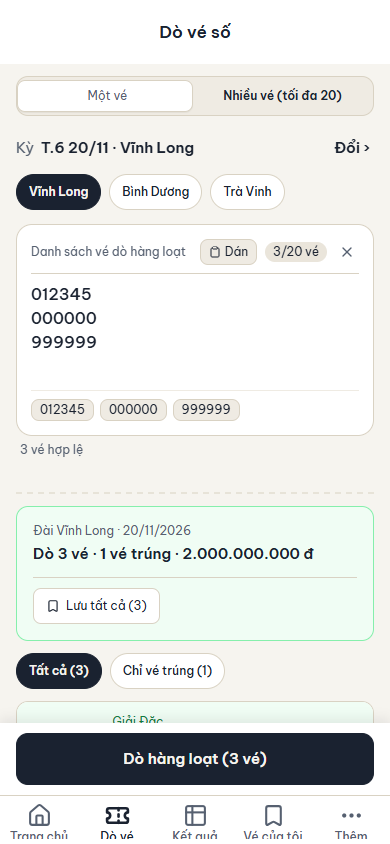
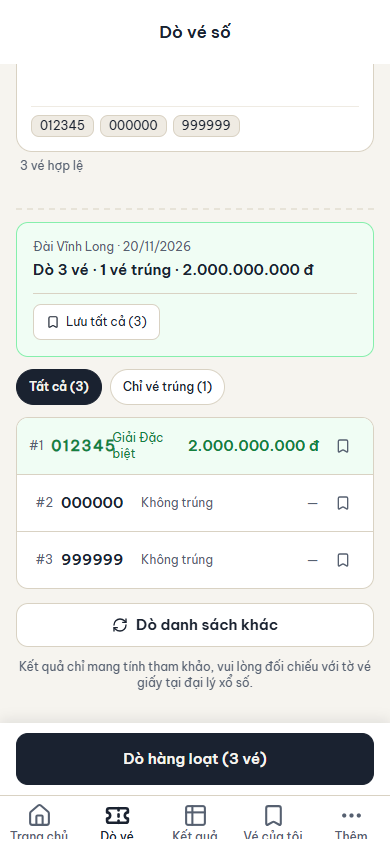
fix(mobile): chunk pending recheck into batches of 20 tickets
The auto recheck sent every PENDING ticket of a draw in one
/check/batch call, but the API accepts at most 20, so 21+ tickets got
400 and stayed PENDING forever. Split groups into chunks of 20, let a
failing chunk not block the rest, and also settle STATION_NOT_FOUND as
INVALID. Covered by Jest and a Playwright scenario with 25 tickets.

diff --git a/apps/mobile/src/hooks/__tests__/recheckChunking.test.ts b/apps/mobile/src/hooks/__tests__/recheckChunking.test.ts
@@ -1,0 +1,105 @@
+import { recheckPendingTickets, RECHECK_BATCH_SIZE } from '../usePendingTicketsRecheck';
+import { saveManyTickets, clearAllTickets, getTickets } from '@/store/ticketStore';
+import { ApiError } from '@/api/client';
+import type { BatchCheckRequest, BatchCheckResponse } from '@/types';
+
+const STATION = 'vinh-long';
+const DATE = '2026-11-20';
+const tickets = (n: number) =>
+  Array.from({ length: n }, (_, i) => String(100000 + i).padStart(6, '0'));
+
+async function seedPending(codes: string[], station = STATION) {
+  await saveManyTickets(
+    codes.map((ticket) => ({
+      ticket,
+      station,
+      stationName: station,
+      drawDate: DATE,
+      status: 'PENDING' as const,
+      totalPrize: 0,
+    })),
+  );
+}
+
+function checkedResponse(req: BatchCheckRequest): BatchCheckResponse {
+  return {
+    stationCode: req.stationCode,
+    drawDate: req.drawDate,
+    totalAmount: 0,
+    results: req.tickets.map((ticket) => ({
+      ticket,
+      stationCode: req.stationCode,
+      drawDate: req.drawDate,
+      status: 'CHECKED',
+      won: false,
+      wins: [],
+      totalAmount: 0,
+    })),
+  } as BatchCheckResponse;
+}
+
+describe('T13.01 recheck splits pending groups into batches the API accepts', () => {
+  beforeEach(async () => {
+    await clearAllTickets();
+  });
+
+  it('uses the backend batch limit of 20', () => {
+    expect(RECHECK_BATCH_SIZE).toBe(20);
+  });
+
+  it('settles 25 pending tickets of one draw with batches of 20 + 5', async () => {
+    await seedPending(tickets(25));
+    const batchFn = jest.fn(async (req: BatchCheckRequest) => checkedResponse(req));
+
+    const { updatedCount } = await recheckPendingTickets(batchFn);
+
+    expect(batchFn.mock.calls.map(([req]) => req.tickets.length)).toEqual([20, 5]);
+    expect(updatedCount).toBe(25);
+    const stored = await getTickets();
+    expect(stored.filter((t) => t.status === 'PENDING')).toHaveLength(0);
+  });
+
+  it('a failing chunk does not block the other chunks', async () => {
+    await seedPending(tickets(25));
+    let call = 0;
+    const batchFn = jest.fn(async (req: BatchCheckRequest) => {
+      call++;
+      if (call === 1) {
+        throw new ApiError({ status: 0, code: 'NETWORK_ERROR' });
+      }
+      return checkedResponse(req);
+    });
+
+    const { updatedCount } = await recheckPendingTickets(batchFn);
+
+    expect(batchFn).toHaveBeenCalledTimes(2);
+    expect(updatedCount).toBe(5);
+    const stored = await getTickets();
+    expect(stored.filter((t) => t.status === 'PENDING')).toHaveLength(20);
+  });
+
+  it('marks tickets INVALID when the station no longer exists', async () => {
+    await seedPending(tickets(2), 'khong-ton-tai');
+    const batchFn = jest.fn(async () => {
+      throw new ApiError({ status: 404, code: 'STATION_NOT_FOUND' });
+    });
+
+    const { updatedCount } = await recheckPendingTickets(batchFn);
+
+    expect(updatedCount).toBe(2);
+    const stored = await getTickets();
+    expect(stored.every((t) => t.status === 'INVALID')).toBe(true);
+  });
+
+  it('keeps tickets PENDING on rate limit so they are retried later', async () => {
+    await seedPending(tickets(2));
+    const batchFn = jest.fn(async () => {
+      throw new ApiError({ status: 429, code: 'RATE_LIMITED' });
+    });
+
+    await recheckPendingTickets(batchFn);
+
+    const stored = await getTickets();
+    expect(stored.every((t) => t.status === 'PENDING')).toBe(true);
+  });
+});

diff --git a/apps/mobile/src/hooks/usePendingTicketsRecheck.ts b/apps/mobile/src/hooks/usePendingTicketsRecheck.ts
@@ -35,9 +35,25 @@ export function groupPendingTickets(tickets: SavedTicket[]): PendingGroup[] {
   return Array.from(groupMap.values());
 }
 
+/** Max tickets per /check/batch request, same as the backend's @Size(max = 20) (T13.01). */
+export const RECHECK_BATCH_SIZE = 20;
+
 /**
- * Checks all PENDING tickets by querying the batch check API for each group.
- * Automatically updates the store with WON/LOST status and prize details.
+ * Errors that will never go away by retrying: the tickets are marked INVALID
+ * instead of being rechecked forever (T11.16d, T13.01).
+ */
+const PERMANENT_ERROR_CODES = new Set(['STATION_NOT_DRAWING', 'STATION_NOT_FOUND']);
+
+function chunk<T>(items: T[], size: number): T[][] {
+  const out: T[][] = [];
+  for (let i = 0; i < items.length; i += size) out.push(items.slice(i, i + size));
+  return out;
+}
+
+/**
+ * Checks all PENDING tickets by querying the batch check API for each group,
+ * in chunks of at most RECHECK_BATCH_SIZE tickets. A failing chunk does not
+ * stop the others. Automatically updates the store with WON/LOST status.
  */
 export async function recheckPendingTickets(
   batchCheckFn = checkBatchTickets,
@@ -45,7 +61,9 @@ export async function recheckPendingTickets(
 ): Promise<{ updatedCount: number }> {
   try {
     const allTickets = await getTickets();
-    const groups = groupPendingTickets(allTickets);
+    const groups = groupPendingTickets(allTickets).flatMap((group) =>
+      chunk(group.tickets, RECHECK_BATCH_SIZE).map((tickets) => ({ ...group, tickets })),
+    );
 
     if (groups.length === 0) {
       return { updatedCount: 0 };
@@ -87,9 +105,9 @@ export async function recheckPendingTickets(
           }
         }
       } catch (err) {
-        // A station that does not draw that day will never get a result:
-        // mark the tickets INVALID instead of rechecking forever (T11.16d)
-        if (err instanceof ApiError && err.code === 'STATION_NOT_DRAWING') {
+        // A station that does not draw that day (or no longer exists) will never
+        // get a result: mark the tickets INVALID instead of rechecking forever
+        if (err instanceof ApiError && err.code && PERMANENT_ERROR_CODES.has(err.code)) {
           for (const t of group.tickets) {
             await updateFn(t.id, { status: 'INVALID' });
             updatedCount++;

diff --git a/docs/progress/PROGRESS-13-final-hardening.md b/docs/progress/PROGRESS-13-final-hardening.md
@@ -1,11 +1,11 @@
 # PROGRESS 13 — Gia cố chốt hạ
 
 **Plan:** [`docs/plans/PLAN-13-final-hardening.md`](../plans/PLAN-13-final-hardening.md)
-**Tổng:** 1 / 14 task
+**Tổng:** 2 / 14 task
 
 | Task | Nội dung | Mức | Trạng thái | Commit | Ngày |
 |---|---|---|---|---|---|
-| T13.00 | CORS dev + smoke test Playwright trên Expo Web | — | [ ] | | |
+| T13.00 | CORS dev + smoke test Playwright trên Expo Web | — | [x] | `d136896` | 2026-11-20 |
 | T13.01 | Dò lại PENDING theo lô ≤20 vé, chốt `STATION_NOT_FOUND` | P1 | [ ] | | |
 | T13.02 | Màn Dò vé theo kịp kỳ mặc định qua 16:10 / nửa đêm | P3 | [ ] | | |
 | T13.03 | Không che lỗi mạng bằng "chưa có kết quả" (Cả ngày) | P2 | [ ] | | |
